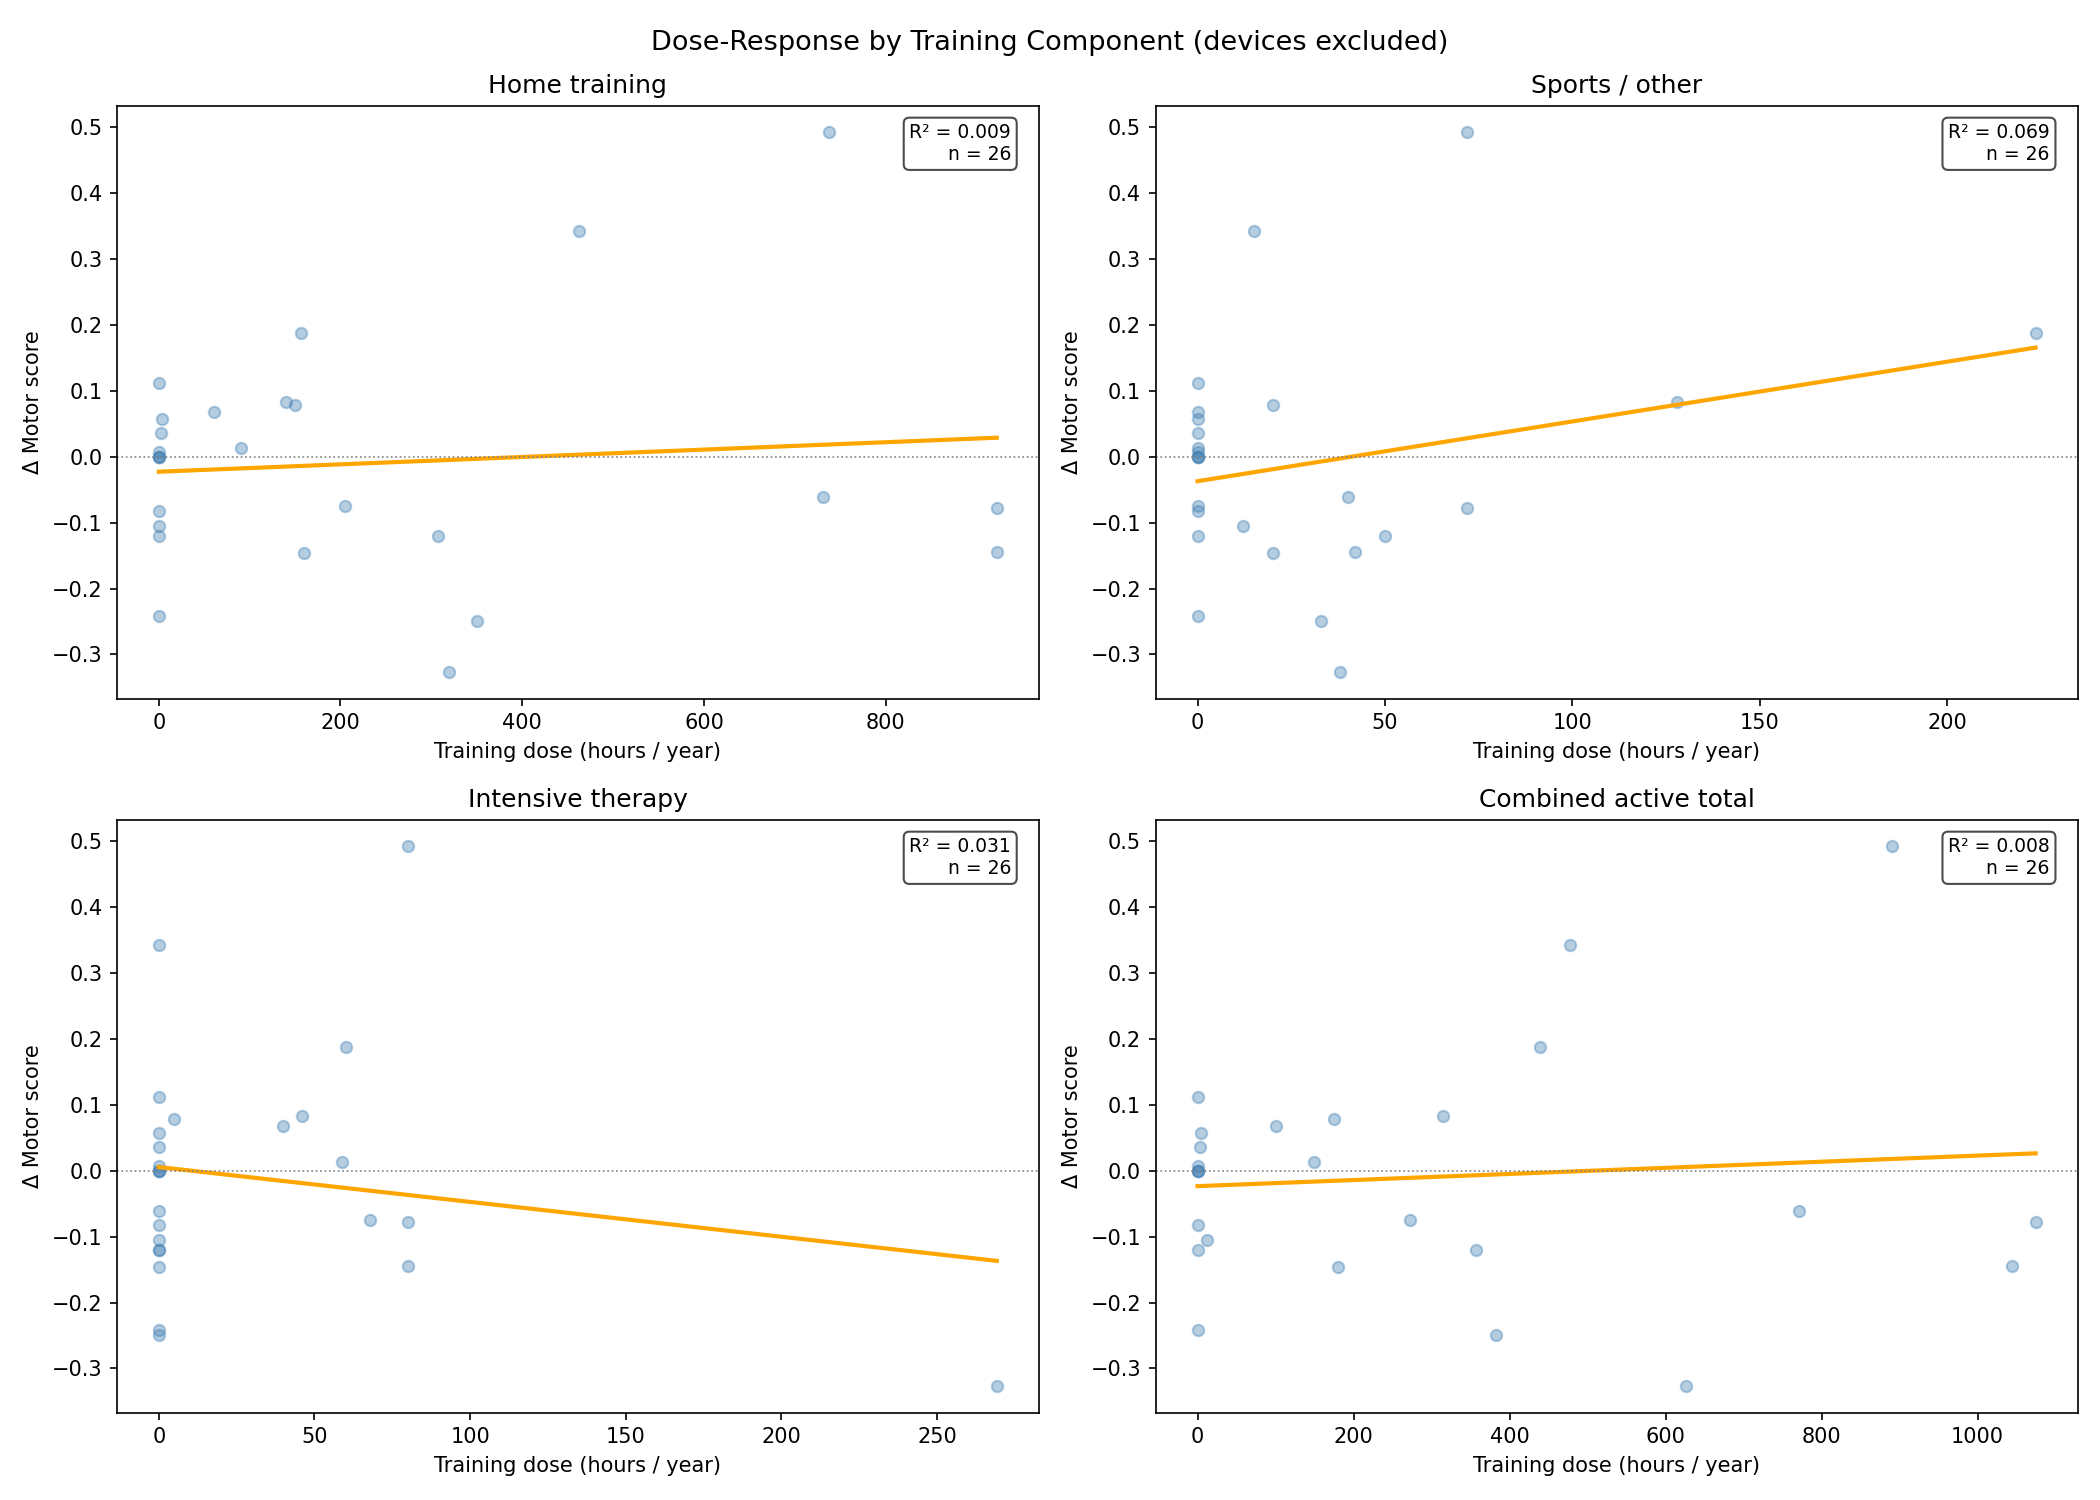
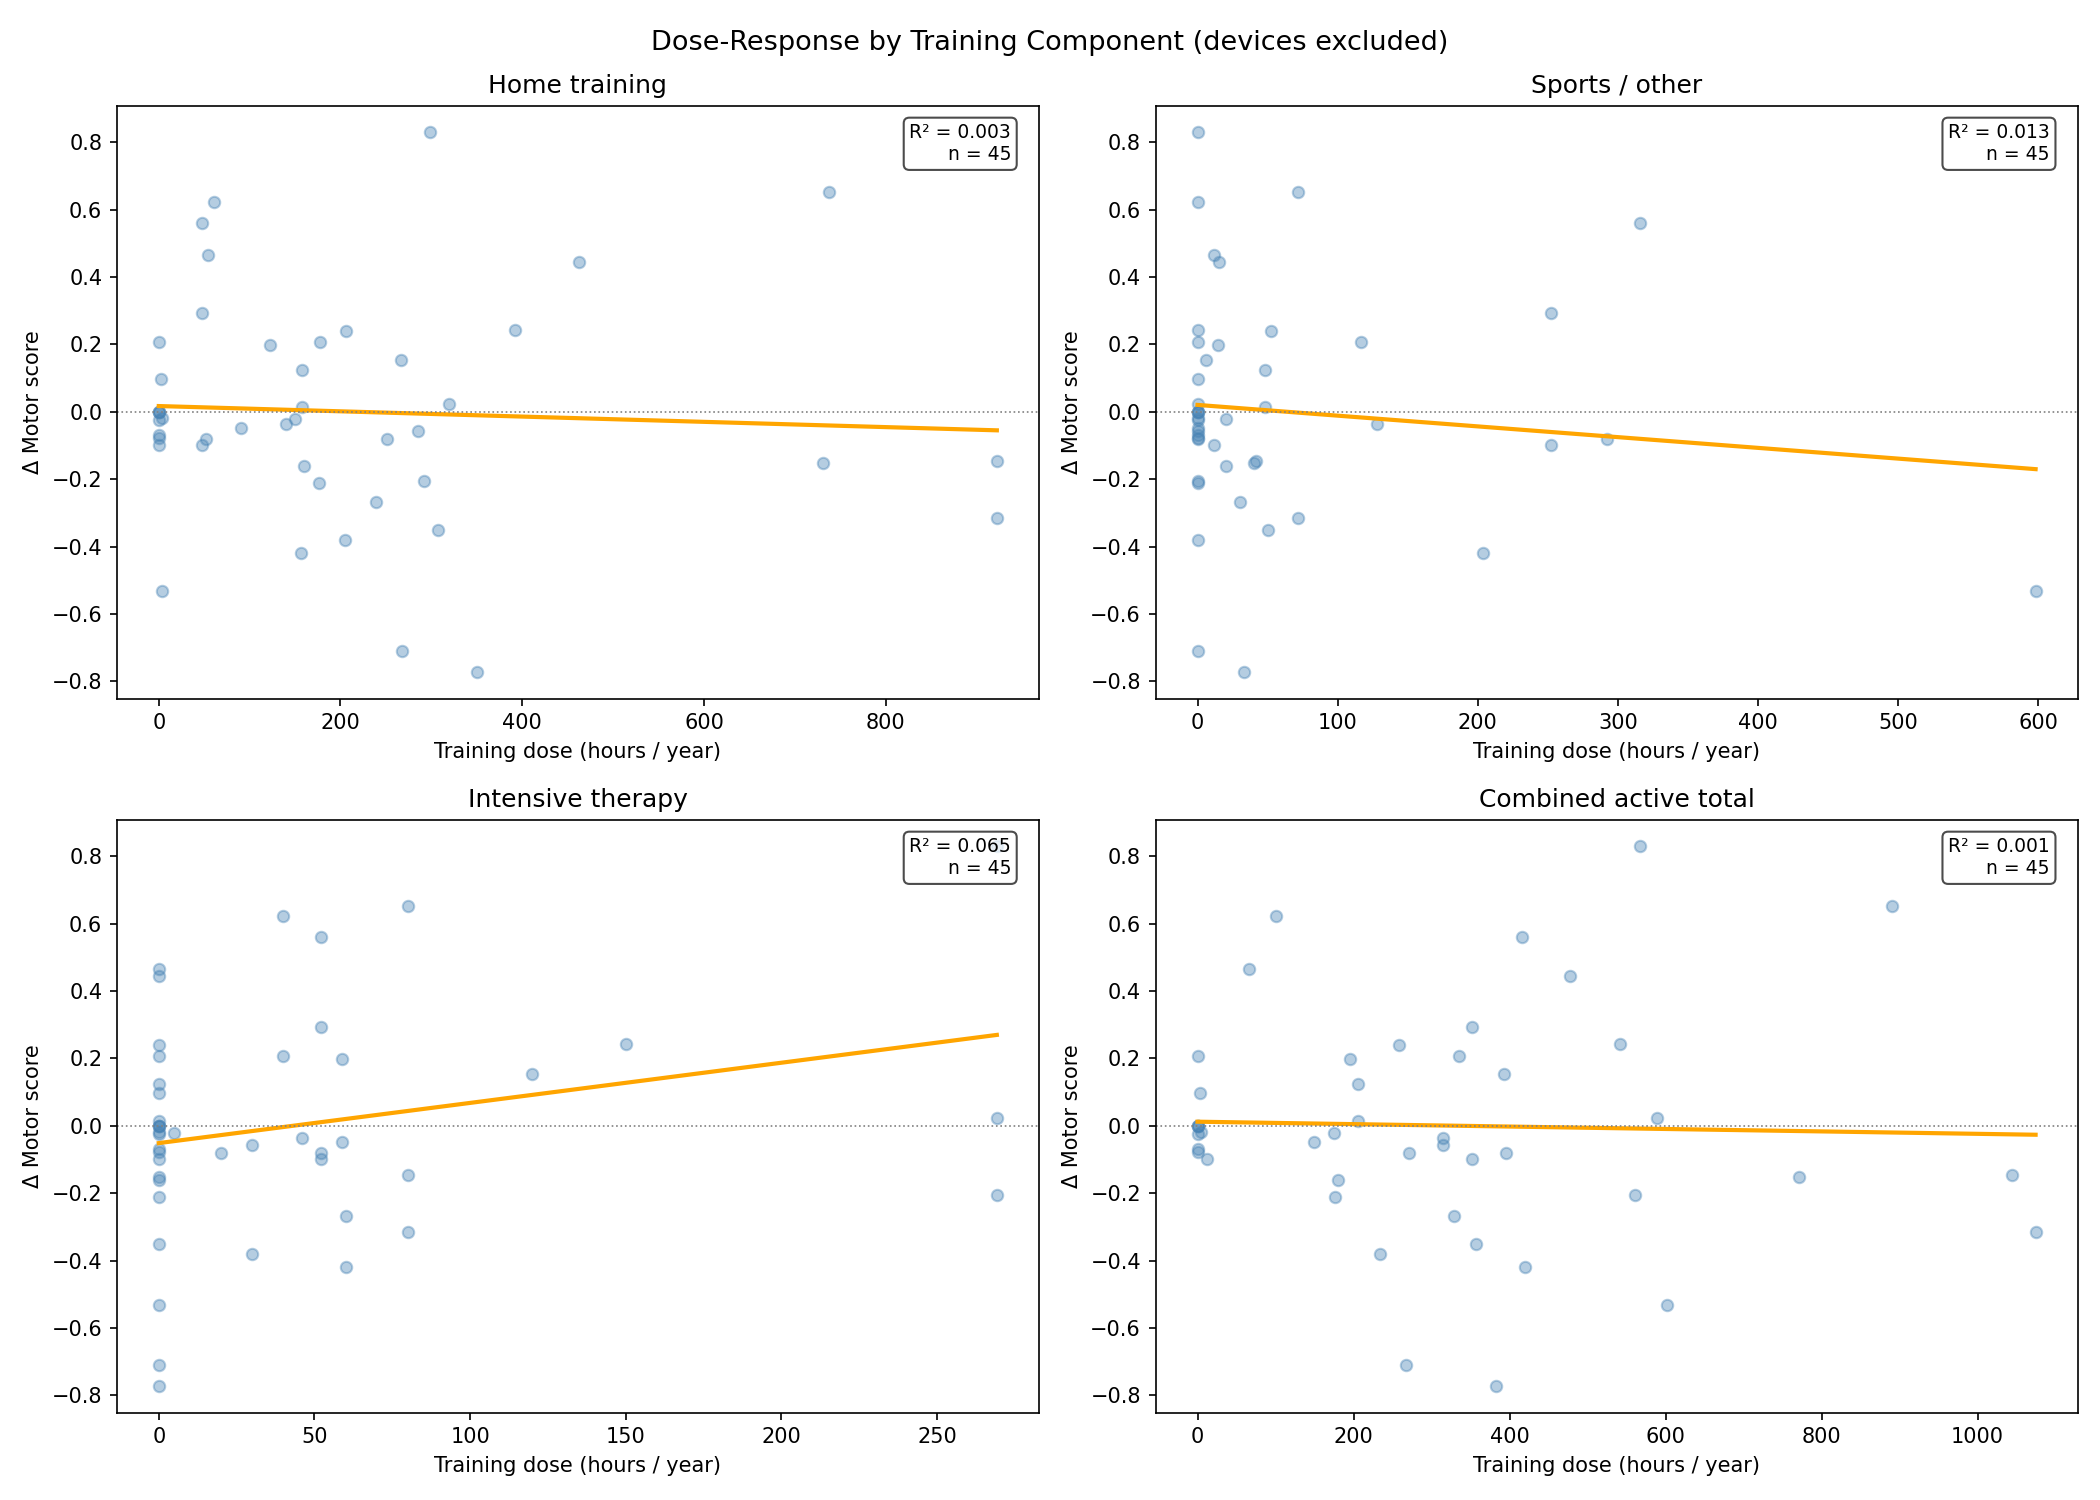
testing what results are with new motorscore milestones

diff --git a/src/dummy_model_3.py b/src/dummy_model_3.py
@@ -47,7 +47,7 @@ def build_dose_response_dataset(
 
     motor_df = motor_df.sort(["introductory_id", "age"])
     motor_df = motor_df.with_columns(
-        (pl.col("motorical_score_2") - pl.col("motorical_score_2").shift(1))
+        (pl.col("milestone_score") - pl.col("milestone_score").shift(1))
         .over("introductory_id")
         .alias("delta_motor_score")
     ).filter(pl.col("delta_motor_score").is_not_null())
@@ -113,7 +113,7 @@ def build_active_hours_dataset(
 
     motor_df = motor_df.sort(["introductory_id", "age"])
     motor_df = motor_df.with_columns(
-        (pl.col("motorical_score_2") - pl.col("motorical_score_2").shift(1))
+        (pl.col("milestone_score") - pl.col("milestone_score").shift(1))
         .over("introductory_id")
         .alias("delta_motor_score")
     ).filter(pl.col("delta_motor_score").is_not_null())
@@ -283,7 +283,7 @@ def run_analysis(
     known_cols = {
         "introductory_id",
         "age",
-        "motorical_score_2",
+        "milestone_score",
         "delta_motor_score",
         "home_hours",
         "sports_hours",
@@ -617,6 +617,10 @@ if __name__ == "__main__":
         calculate_expected_milestone_score_3,
         process_motorical_score_1,
     )
+    from preprocessing.motor_scores import (
+        motorscore_milestones_setvalue,
+        motorscore_milestones,
+    )
     from preprocessing.preprocessing_ht import process_training_per_type_per_year
     from preprocessing.preprocessing_it import (
         process_neurohab_hours_per_user_per_age,
@@ -626,7 +630,7 @@ if __name__ == "__main__":
     conn = get_connection()
     data = load_data(conn)
 
-    motor_df = process_motorical_score_2_per_user_per_age(data["motorical_development"])
+    motor_df = motorscore_milestones(data["motorical_development"])
     home_df = process_training_per_type_per_year(data["home_training"])
     neurohab_df = process_neurohab_hours_per_user_per_age(data["intensive_therapies"])
     medical_df = process_medical_treatments_per_user_per_age(

diff --git a/src/preprocessing/motor_scores.py b/src/preprocessing/motor_scores.py
@@ -1,4 +1,4 @@
-from preprocessing_md import extract_milestone_keys, count_milestones, sum_impairments
+from preprocessing.preprocessing_md import extract_milestone_keys, count_milestones, sum_impairments
 
 import polars as pl
 
